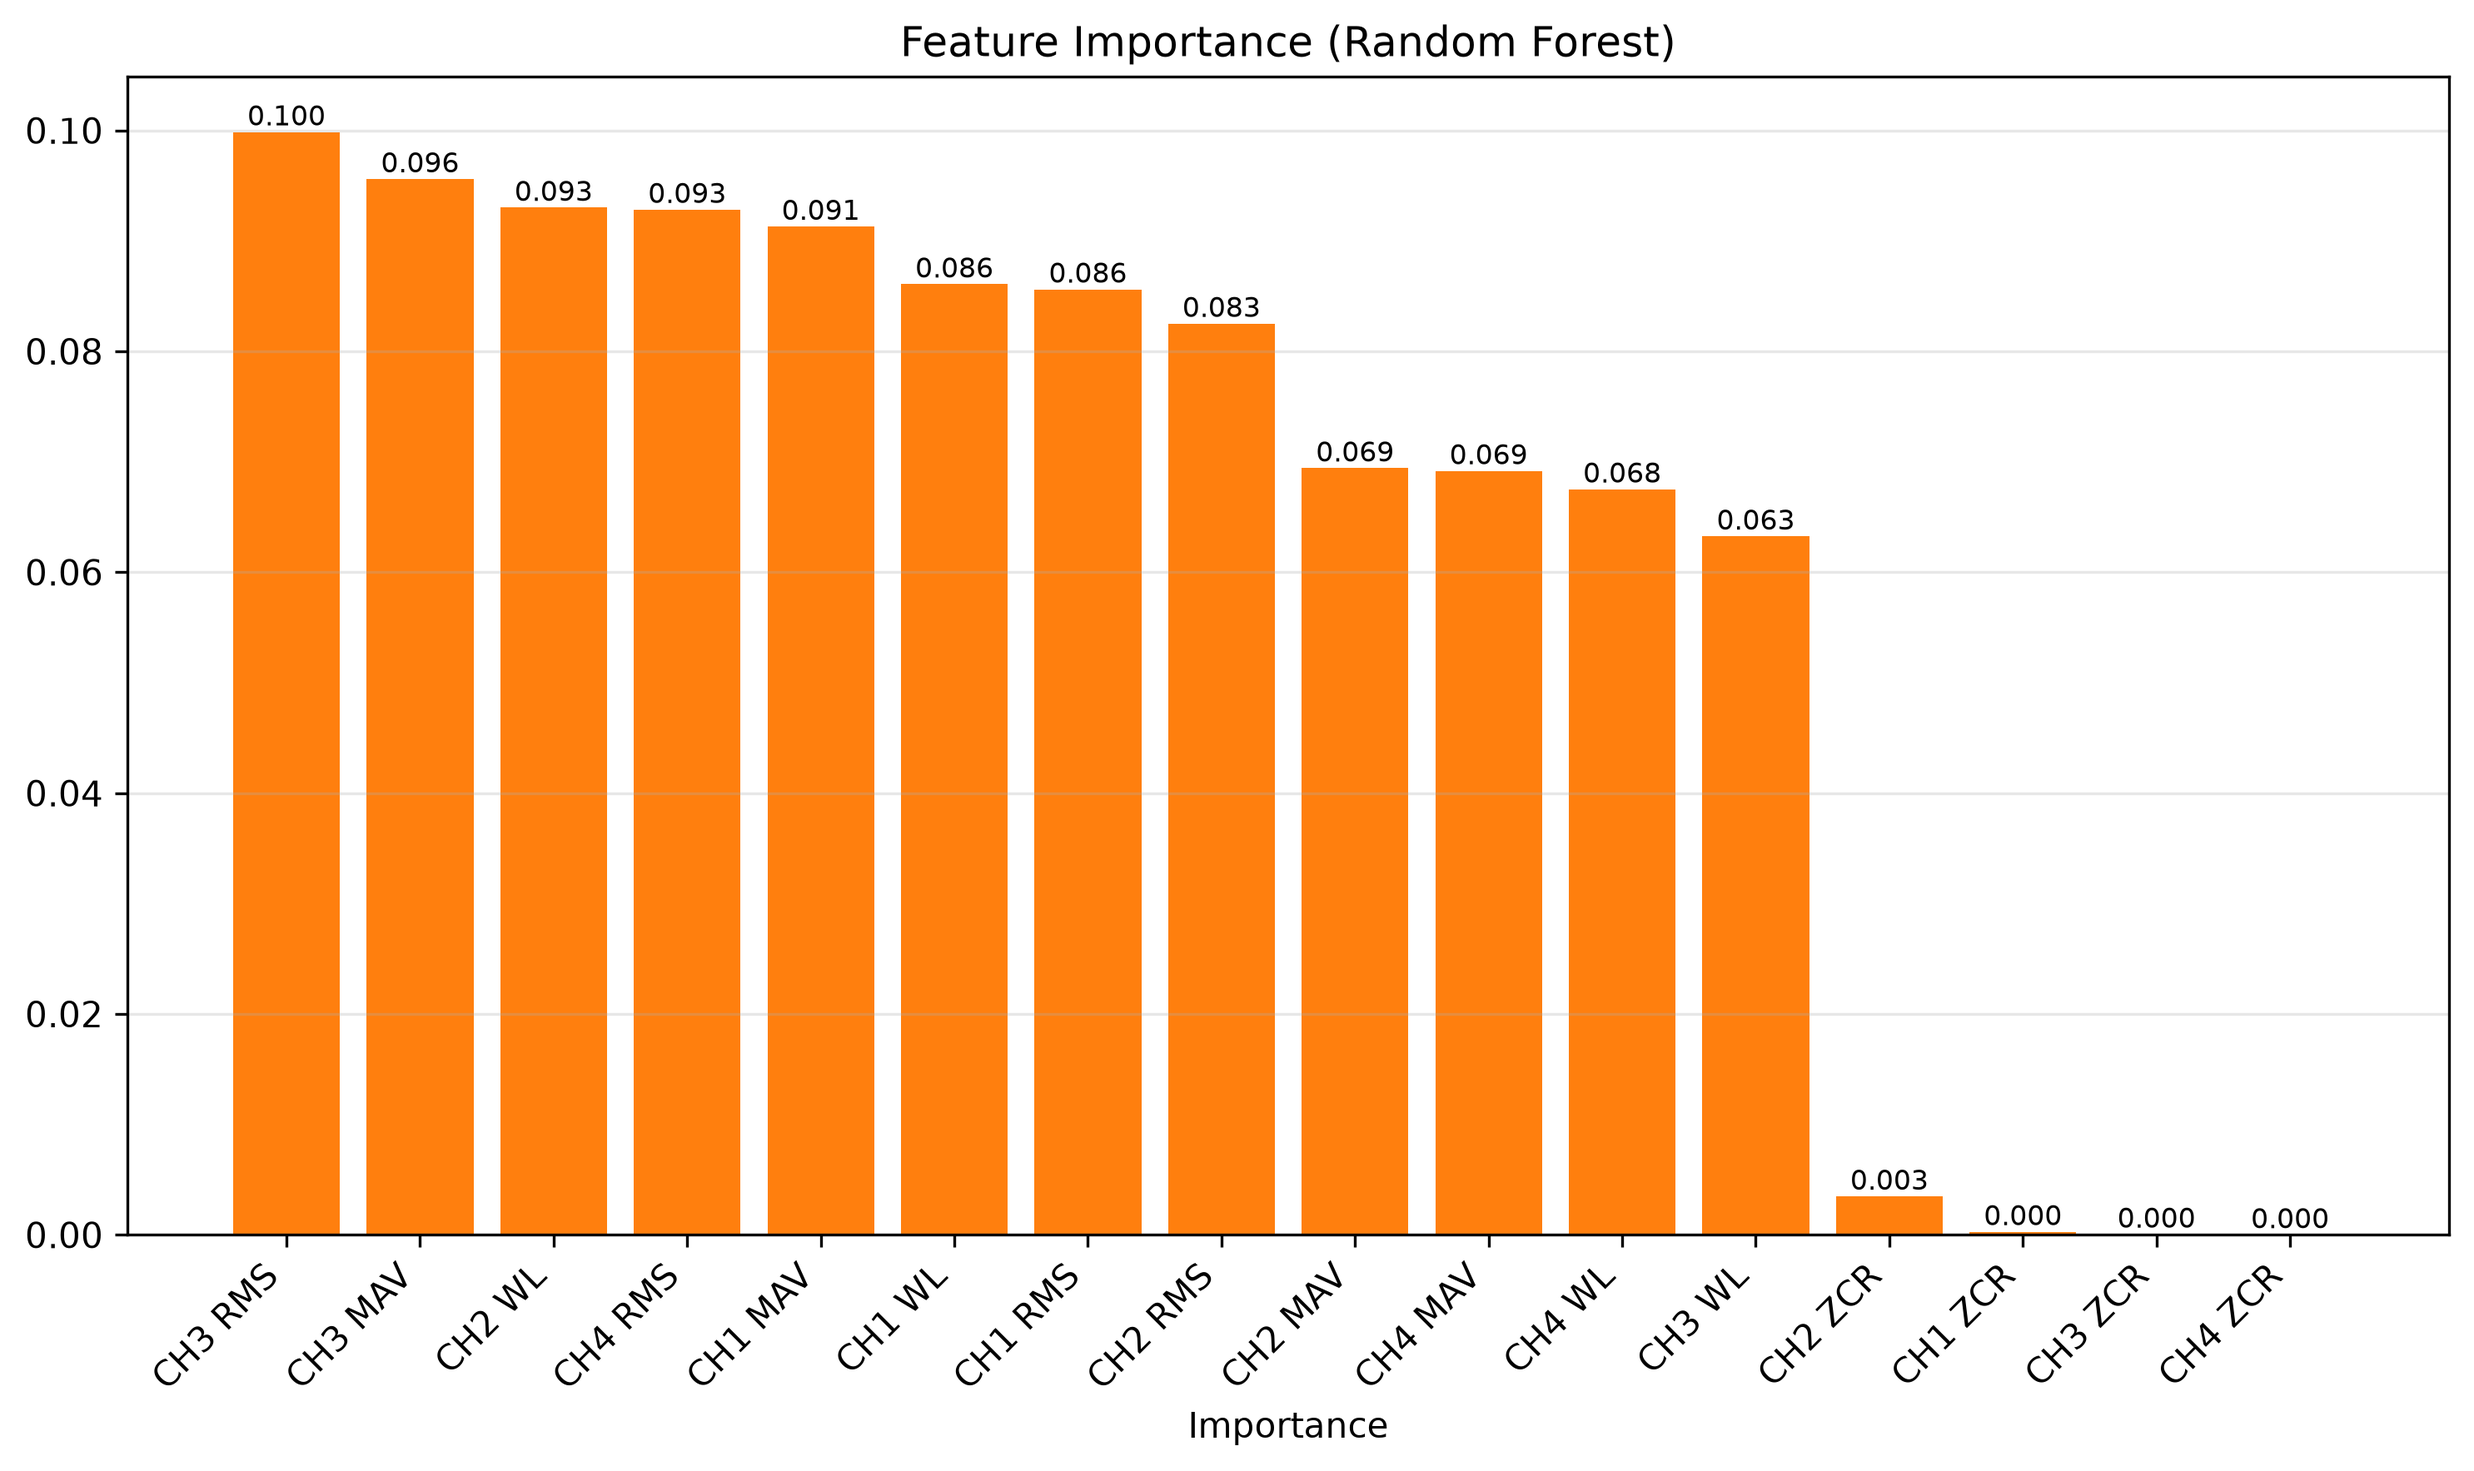
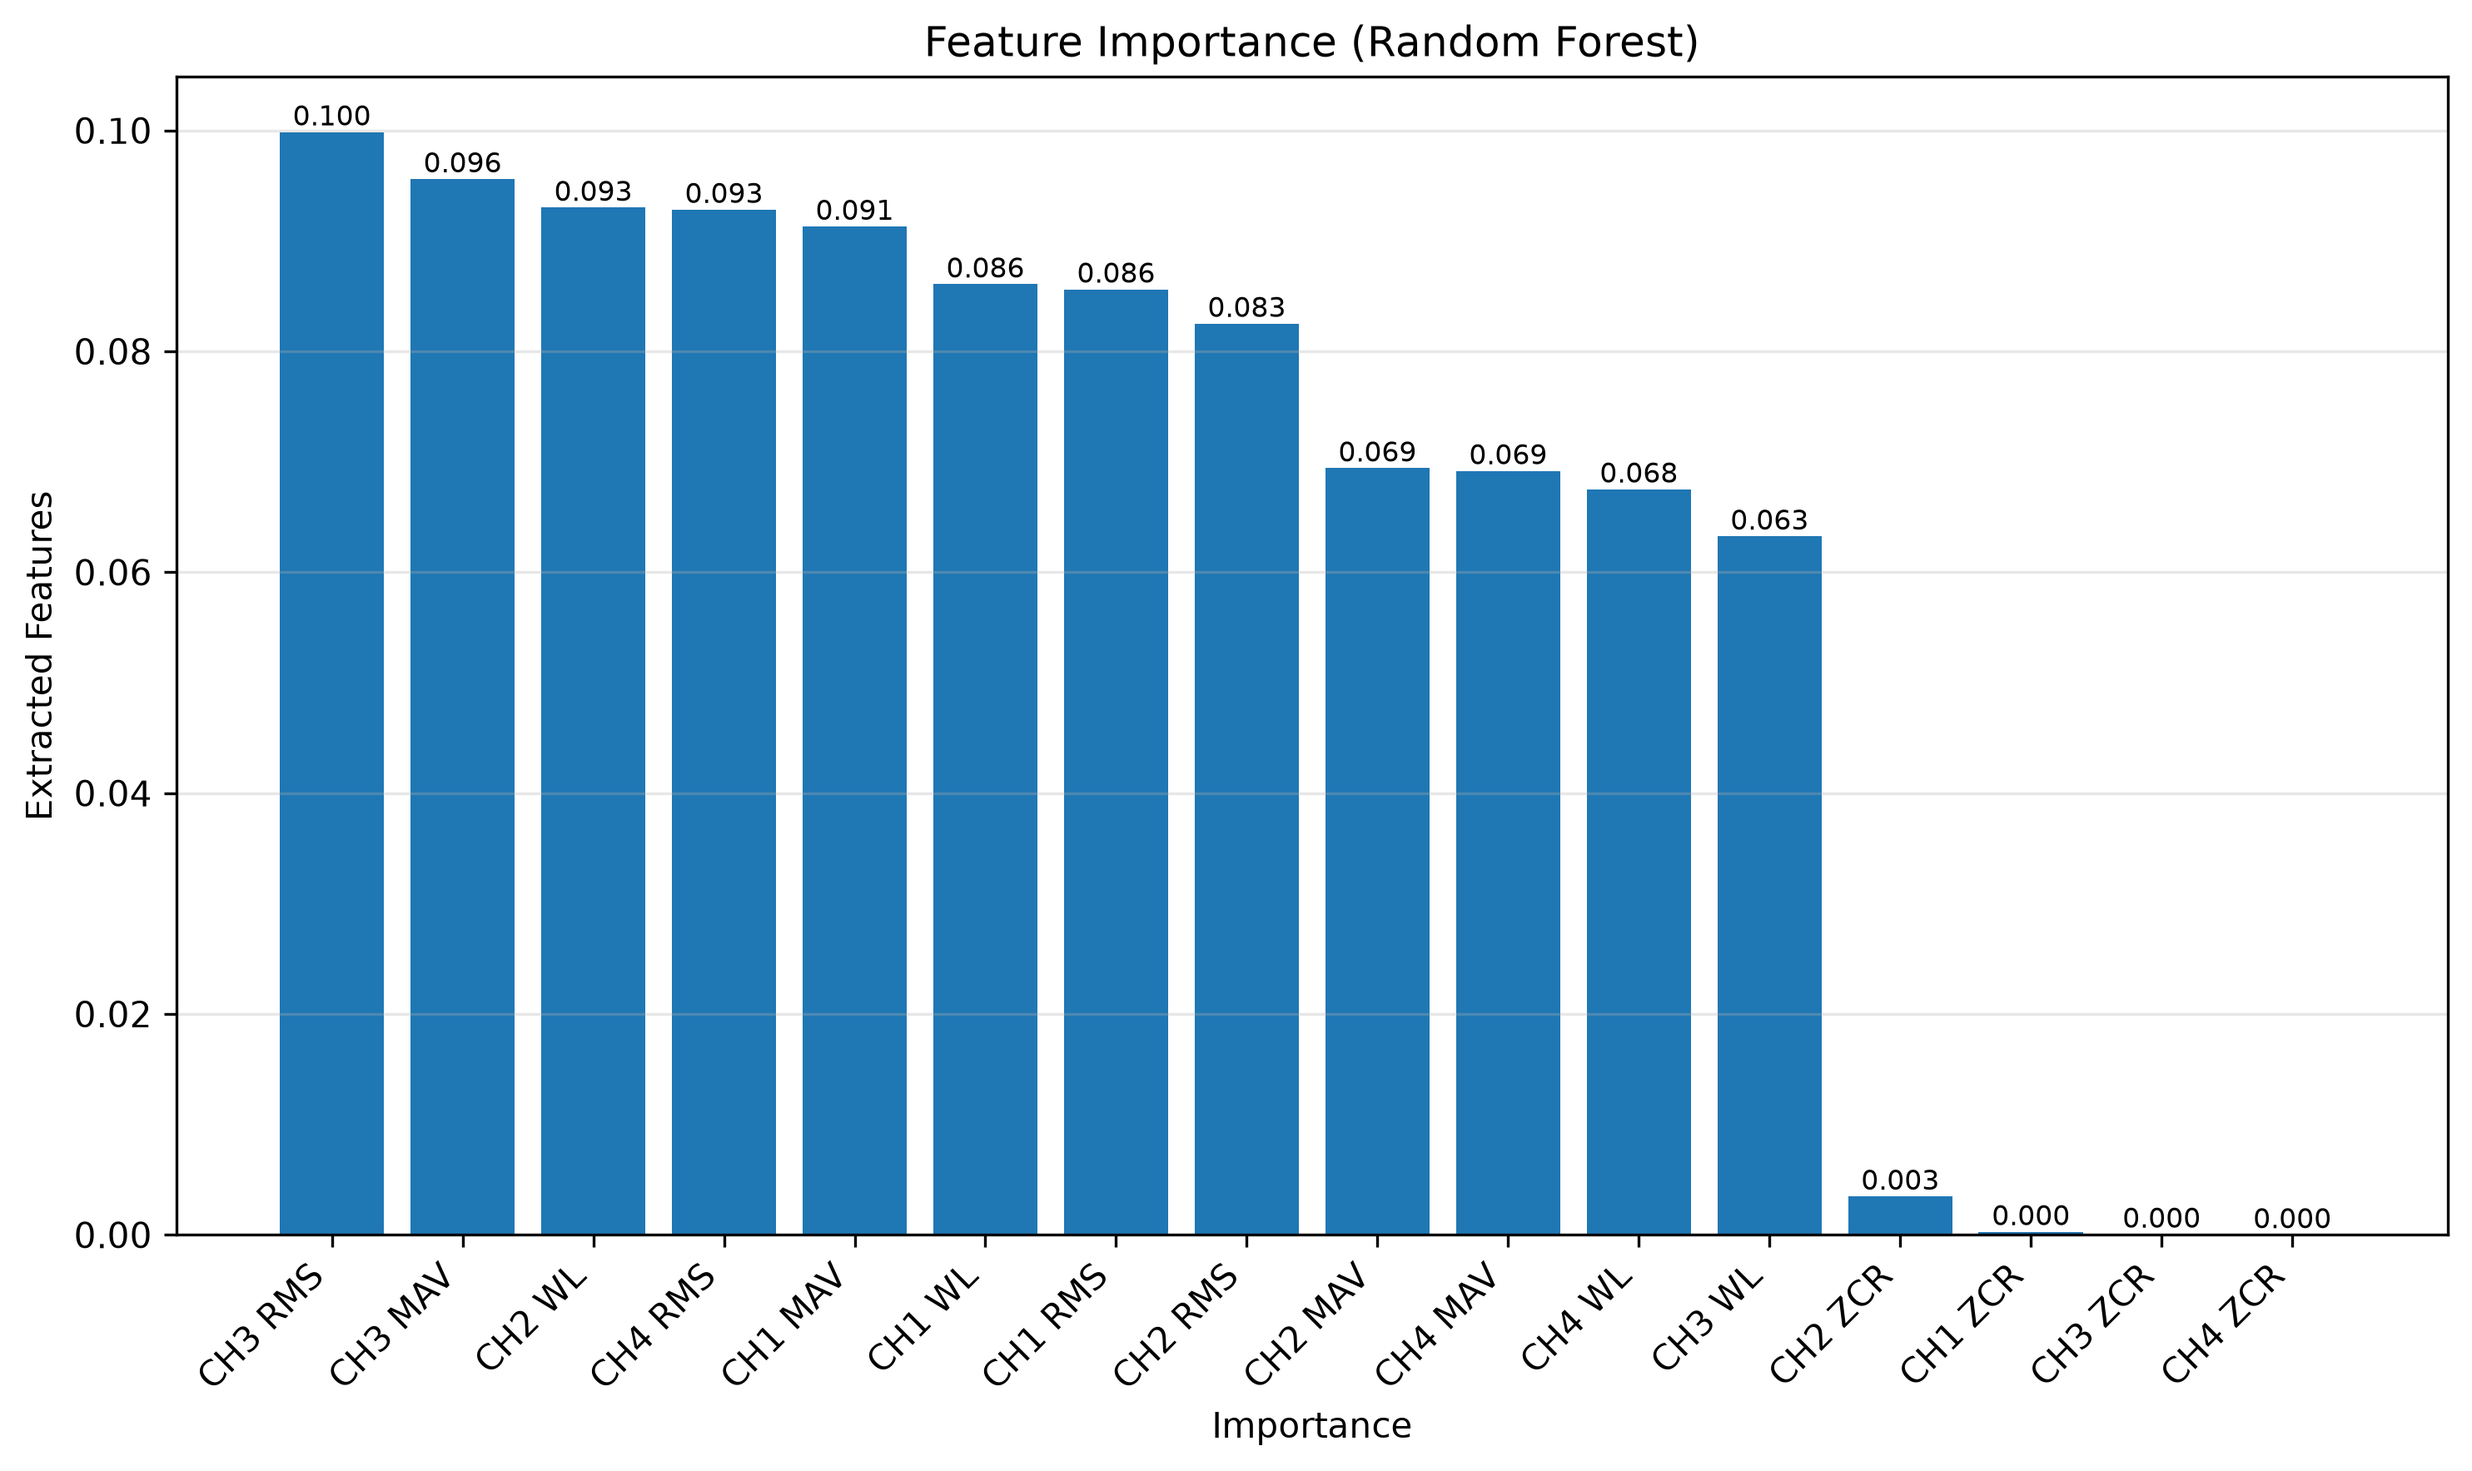
Enhnaced model evaluation and project reporting

diff --git a/challenges/challenge-a/src/placeholder.py b/challenges/challenge-a/src/placeholder.py
@@ -132,11 +132,6 @@ def plot_feature_importance(model):
 
     plt.figure(figsize=(10, 6))
 
-    plt.bar(
-        np.array(FEATURE_NAMES)[sorted_index],
-        importance[sorted_index]
-    )
-
     bars = plt.bar(
         np.array(FEATURE_NAMES)[sorted_index],
         importance[sorted_index]
@@ -147,6 +142,7 @@ def plot_feature_importance(model):
 
     plt.xlabel("Importance")
     plt.xticks(rotation=45, ha="right")
+    plt.ylabel("Extracted Features")
     plt.title("Feature Importance (Random Forest)")
     plt.grid(axis="y", alpha=0.3)
 
@@ -293,7 +289,13 @@ def train_classifier(features, labels):
     accuracy = accuracy_score(y_test, predictions)
 
     print(f"\nTest Accuracy: {accuracy:.2%}\n")
-    print(classification_report(y_test, predictions))
+    
+    report = classification_report(y_test, predictions)
+
+    print(report)
+
+    with open("classification_report.txt", "w") as file:
+        file.write(report)
 
     ConfusionMatrixDisplay.from_predictions(y_test, predictions, cmap="Blues")
 
@@ -381,6 +383,8 @@ if __name__ == "__main__":
 
     print(f"Generated {len(predictions)} predictions.")
 
+    print(f"Average prediction confidence: {confidence.mean():.2%}")
+
     with open("predictions.csv", "w", newline="") as file:
 
         writer = csv.writer(file)
@@ -393,4 +397,15 @@ if __name__ == "__main__":
 
     print("Predictions saved to predictions.csv")
     
-    print("\nPipeline completed successfully.")
+    print("\n==========================================\n" 
+    "Pipeline completed successfully!\n\n\n" 
+
+    "Artifacts generated:\n\n\n"
+
+    "✓ raw_vs_filtered.png\n"
+    "✓ confusion_matrix.png\n"
+    "✓ feature_importance.png\n"
+    "✓ predictions.csv\n"
+    "✓ classification_report.txt\n\n"
+
+    "==========================================")
